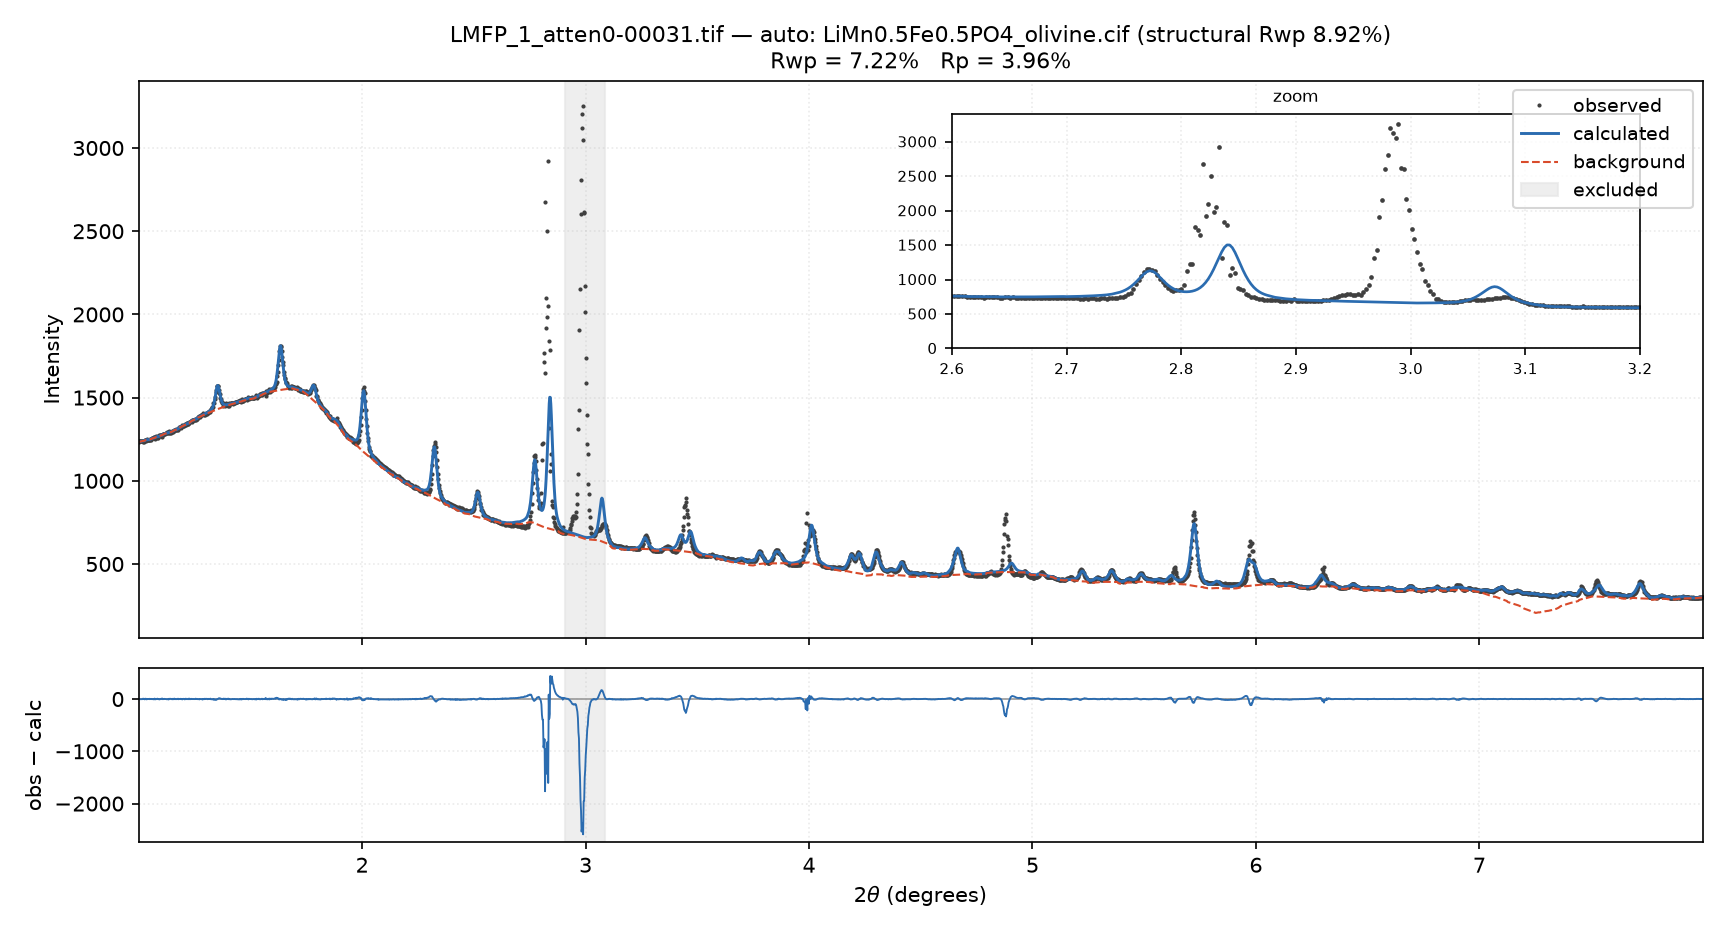
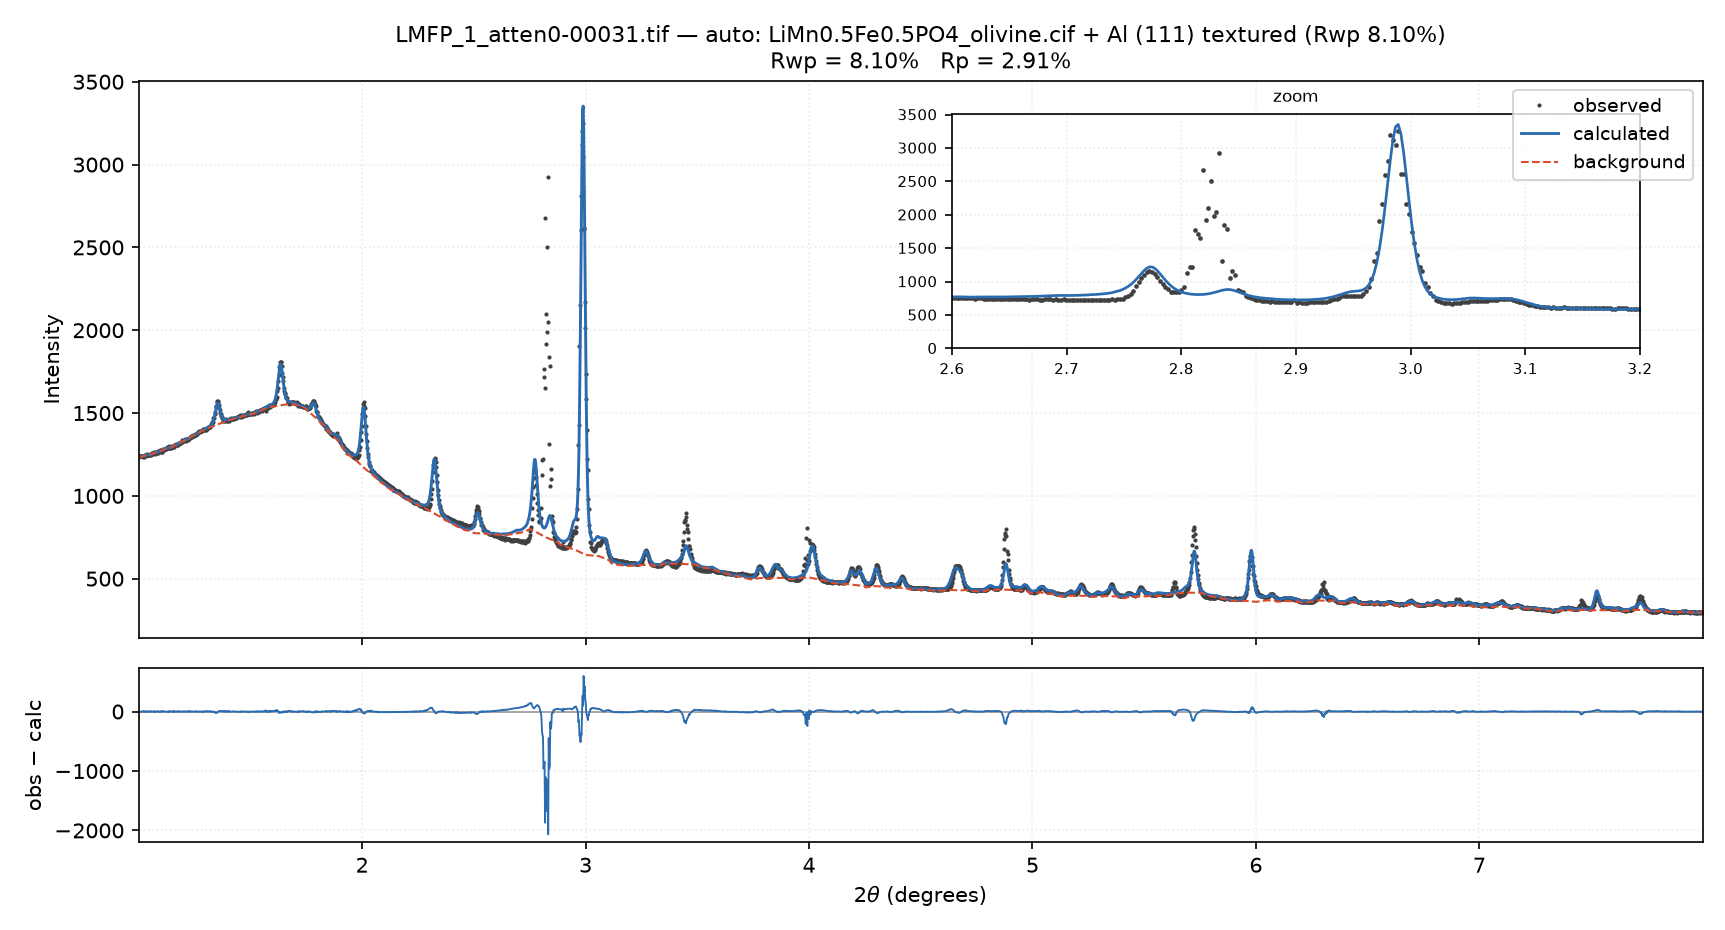
feat: model the Al substrate as a (111)-textured second phase
- rolled Al foil has strong (111) texture; the random-Al phase was worse than exclusion
- extra Al phase with md=((111),0.5): structural Rwp 8.92 -> 8.10%, Le Bail 7.22 -> 6.99%
- analyze_pattern auto-detects Al and uses the textured phase; fit_lmfp defaults to it (--exclude-al to opt out)
- bound fit iterations; refresh showcase figures/reports

diff --git a/scripts/fit_lmfp.py b/scripts/fit_lmfp.py
@@ -62,7 +62,7 @@ def instrument_profile(geom, lam):
     return fit_pattern(
         st, t, y, wavelength=lam, b_iso=b6, background=bg,
         background_knots=0.25, weights="poisson",
-        free=("zero", "u", "v", "w", "x", "y"))
+        free=("zero", "u", "v", "w", "x", "y"), max_nfev=200)
 
 
 def fit_one(path, structure, geom, lam, inst, outdir, exclude, cif_cell,
@@ -70,8 +70,12 @@ def fit_one(path, structure, geom, lam, inst, outdir, exclude, cif_cell,
     t, y = load_1d(path, geom)
     bg = estimate_baseline_sliding(t, y, 0.2)
     w = 1.0 / np.maximum(y, 1.0)
+    w_leb = w.copy()
     for lo, hi in exclude:
-        w[(t > lo) & (t < hi)] = 0.0
+        w_leb[(t > lo) & (t < hi)] = 0.0
+    w_struct = w.copy()
+    if not use_al:
+        w_struct = w_leb
 
     extras = []
     if use_al:
@@ -80,6 +84,9 @@ def fit_one(path, structure, geom, lam, inst, outdir, exclude, cif_cell,
             "structure": al, "label": "Al",
             "a": 4.061, "b": 4.061, "c": 4.061,
             "size_um": 0.1, "mustrain": 0.0, "b_iso": 0.5,
+            # 铝箔是轧制的，(111) 强取向；固定 (111) 织构才能解释
+            # 2.99° 的强峰与很弱的 (200)/(220)/(311)。
+            "md": ((1, 1, 1), 0.5),
         }]
     init = {
         "zero": inst.params["zero"],
@@ -90,33 +97,31 @@ def fit_one(path, structure, geom, lam, inst, outdir, exclude, cif_cell,
     }
     struct = fit_pattern(
         structure, t, y, wavelength=lam, b_iso=0.5, background=bg,
-        background_knots=0.25, intensity_poly=2, weights=w,
+        background_knots=0.25, intensity_poly=2, weights=w_struct,
         extra_phases=extras,
         free=("a", "b", "c", "size_um", "mustrain", "b_iso"),
-        initial=init)
-    # 固定结构拟合得到的晶胞，逐峰强度自由（Le Bail）。
-    # Al 第二相模式下 Le Bail 的 126 峰线性问题很慢，且这里只是探索，
-    # 直接用结构拟合出图；默认（排除 Al）仍然跑 Le Bail。
-    lebail = None
-    if not use_al:
-        lebail = fit_pattern(
-            structure, t, y, wavelength=lam, b_iso=0.5, background=bg,
-            background_knots=0.25, weights=w, cell_refine=True,
-            refine_intensities=True, extra_phases=extras,
-            free=("size_um", "mustrain"),
-            initial={**init, "a": struct.params["a"],
-                     "b": struct.params["b"], "c": struct.params["c"],
-                     "size_um": struct.params["size_um"],
-                     "mustrain": struct.params["mustrain"]})
+        initial=init, max_nfev=300)
+    # Le Bail 始终排除 Al 区、不带 Al 相：它给的是“样品峰形/峰强”的
+    # 参考值；结构拟合可以另带 Al 第二相。
+    lebail = fit_pattern(
+        structure, t, y, wavelength=lam, b_iso=0.5, background=bg,
+        background_knots=0.25, weights=w_leb, cell_refine=True,
+        refine_intensities=True,
+        free=("size_um", "mustrain"),
+        initial={**init, "a": struct.params["a"],
+                 "b": struct.params["b"], "c": struct.params["c"],
+                 "size_um": struct.params["size_um"],
+                 "mustrain": struct.params["mustrain"]}, max_nfev=200)
     tag = path.stem.rsplit("-", 1)[-1]
     out = outdir / f"sim_xrd_fit_LMFP_{tag}.png"
-    plot_src = lebail if lebail is not None else struct
+    plot_src = struct if use_al else lebail
     plot_fit(
         plot_src,
         f"LMFP {path.name} — "
-        f"{'Le Bail' if lebail is not None else 'structural'} profile "
-        f"(Rwp {plot_src.rwp:.2f}%)",
-        str(out), zoom=(2.6, 3.2), exclude_ranges=list(exclude))
+        f"{'structural (Al (111) textured)' if use_al else 'Le Bail'} "
+        f"profile (Rwp {plot_src.rwp:.2f}%)",
+        str(out), zoom=(2.6, 3.2),
+        exclude_ranges=[] if use_al else list(exclude))
     return struct, lebail, out
 
 
@@ -126,9 +131,9 @@ def main():
     ap.add_argument("--images", nargs="*", default=[str(p) for p in DEFAULT_IMAGES])
     ap.add_argument("--outdir", default=str(ROOT / "showcase" / "simulation"))
     ap.add_argument("--exclude", default="2.90,3.08",
-                    help="排除区间 lo,hi（度）；默认排除 Al (111) 基片峰")
-    ap.add_argument("--al-phase", action="store_true",
-                    help="把 Al 作为第二相建模（本样品实测不如排除：9.4%% vs 8.9%%）")
+                    help="排除区间 lo,hi（度）；Le Bail 始终排除 Al 区")
+    ap.add_argument("--exclude-al", action="store_true",
+                    help="不用 Al 第二相，直接把 Al 区从结构拟合里排除")
     ap.add_argument("--tmin", type=float, default=1.0)
     ap.add_argument("--tmax", type=float, default=8.0)
     a = ap.parse_args()
@@ -139,9 +144,10 @@ def main():
         ap.error(f"CIF 不存在：{cif}")
     structure = load_structure(str(cif))
     exclude = []
-    if a.exclude.strip() and not a.al_phase:
+    if a.exclude.strip():
         lo, hi = (float(x) for x in a.exclude.split(","))
         exclude = [(lo, hi)]
+    use_al = not a.exclude_al
     outdir = Path(a.outdir)
     outdir.mkdir(parents=True, exist_ok=True)
 
@@ -150,9 +156,9 @@ def main():
           f"U={inst.params['u']:.3f} V={inst.params['v']:.3f} "
           f"W={inst.params['w']:.3f} X={inst.params['x']:.3f} "
           f"Y={inst.params['y']:.3f}  (Rwp {inst.rwp:.3f}%)")
-    print(f"CIF: {cif.name}；Al "
-          + (f"排除区 {exclude[0][0]:.2f}–{exclude[0][1]:.2f}°"
-             if exclude else "作为第二相建模"))
+    print(f"CIF: {cif.name}；"
+          + (f"Al 排除区 {exclude[0][0]:.2f}–{exclude[0][1]:.2f}°"
+             if not use_al and exclude else "Al (111) 织构第二相"))
     print(f"{'image':>28} {'Rwp结构':>8} {'RwpLeBail':>10} "
           f"{'a':>7} {'b':>7} {'c':>7} {'size/µm':>8} {'ε/1e-3':>7} "
           f"{'B':>6} {'Al scale':>8}")
@@ -164,7 +170,7 @@ def main():
             continue
         struct, lebail, out = fit_one(
             p, structure, geom, lam, inst, outdir, exclude, SAMPLE_CELL,
-            use_al=a.al_phase)
+            use_al=use_al)
         al_scale = struct.params.get("Al:scale")
         leb_txt = (f"{lebail.rwp:10.3f}" if lebail is not None
                    else f"{chr(8212):>10}")

diff --git a/scripts/analyze_pattern.py b/scripts/analyze_pattern.py
@@ -67,7 +67,7 @@ def instrument_profile(geom, lam):
     return fit_pattern(
         st, t, y, wavelength=lam, b_iso=b6, background=bg,
         background_knots=0.25, weights="poisson",
-        free=("zero", "u", "v", "w", "x", "y"))
+        free=("zero", "u", "v", "w", "x", "y"), max_nfev=200)
 
 
 def detect_peaks(t, y, bg):
@@ -152,12 +152,23 @@ def al_substrate_ranges(obs_t, obs_h, lam, tmin, tmax, zero, primary_cif,
 
 
 def fit_one(path, primary, primary_name, cell0, geom, lam, inst, outdir,
-            exclude, tmin, tmax):
+            exclude, tmin, tmax, use_al=False):
     t, y = load_1d(path, geom, tmin, tmax)
     bg = estimate_baseline_sliding(t, y, 0.2)
     w = 1.0 / np.maximum(y, 1.0)
+    w_leb = w.copy()
     for lo, hi in exclude:
-        w[(t > lo) & (t < hi)] = 0.0
+        w_leb[(t > lo) & (t < hi)] = 0.0
+    w_struct = w if use_al else w_leb
+    extras = []
+    if use_al and AL_CIF.exists():
+        al = load_structure(str(AL_CIF))
+        extras = [{
+            "structure": al, "label": "Al",
+            "a": 4.061, "b": 4.061, "c": 4.061,
+            "size_um": 0.1, "mustrain": 0.0, "b_iso": 0.5,
+            "md": ((1, 1, 1), 0.5),      # 轧制铝箔的 (111) 织构
+        }]
     ip = {} if inst is None else {
         "zero": inst.params["zero"], "u": inst.params["u"],
         "v": inst.params["v"], "w": inst.params["w"],
@@ -168,22 +179,26 @@ def fit_one(path, primary, primary_name, cell0, geom, lam, inst, outdir,
             "size_um": 0.2, "mustrain": 1000.0, "b_iso": 0.5}
     struct = fit_pattern(
         primary, t, y, wavelength=lam, b_iso=0.5, background=bg,
-        background_knots=0.25, intensity_poly=2, weights=w,
+        background_knots=0.25, intensity_poly=2, weights=w_struct,
+        extra_phases=extras,
         free=("a", "b", "c", "size_um", "mustrain", "b_iso"),
-        initial=init)
+        initial=init, max_nfev=300)
     lebail = fit_pattern(
         primary, t, y, wavelength=lam, b_iso=0.5, background=bg,
-        background_knots=0.25, weights=w, cell_refine=True,
+        background_knots=0.25, weights=w_leb, cell_refine=True,
         refine_intensities=True, free=("size_um", "mustrain"),
         initial={**init, "a": struct.params["a"], "b": struct.params["b"],
                  "c": struct.params["c"],
                  "size_um": struct.params["size_um"],
-                 "mustrain": struct.params["mustrain"]})
+                 "mustrain": struct.params["mustrain"]}, max_nfev=200)
     tag = path.stem.rsplit("-", 1)[-1]
     out = outdir / f"sim_xrd_fit_LMFP_{tag}.png"
-    plot_fit(lebail, f"{path.name} — auto: {primary_name} "
-                     f"(structural Rwp {struct.rwp:.2f}%)",
-             str(out), zoom=(2.6, 3.2), exclude_ranges=list(exclude))
+    plot_src = struct if use_al else lebail
+    plot_fit(plot_src, f"{path.name} — auto: {primary_name}"
+                       + (" + Al (111) textured" if use_al else "")
+                       + f" (Rwp {plot_src.rwp:.2f}%)",
+             str(out), zoom=(2.6, 3.2),
+             exclude_ranges=[] if use_al else list(exclude))
     return struct, lebail, out
 
 
@@ -240,19 +255,22 @@ def main():
         primary = load_structure(str(top[1]))
         exclude = al_substrate_ranges(
             obs_t, obs_h, lam, a.tmin, a.tmax, zero, top[1], scale)
-        if exclude:
-            print("  自动识别 Al 集流体峰，排除："
+        use_al = bool(exclude)
+        if use_al:
+            print("  自动识别 Al 集流体峰，按 (111) 织构第二相建模："
                   + ", ".join(f"{lo:.2f}–{hi:.2f}°" for lo, hi in exclude))
         else:
             print("  未识别到 Al 集流体强峰")
         struct, lebail, out = fit_one(
             p, primary, top[1].name, cell0, geom, lam, inst, outdir,
-            exclude, a.tmin, a.tmax)
+            exclude, a.tmin, a.tmax, use_al=use_al)
+        al_txt = (f" Al={struct.params['Al:scale']:.3g}"
+                  if "Al:scale" in struct.params else "")
         print(f"  结构：Rwp {struct.rwp:.3f}%  a={struct.params['a']:.4f} "
               f"b={struct.params['b']:.4f} c={struct.params['c']:.4f} "
               f"Size={struct.params['size_um']:.3f} µm "
               f"ε={struct.params['mustrain']/4e6*1e3:.2f}e-3 "
-              f"B={struct.params['b_iso']:.2f}")
+              f"B={struct.params['b_iso']:.2f}{al_txt}")
         print(f"  Le Bail：Rwp {lebail.rwp:.3f}%")
         if struct.params["b_iso"] <= 0.01:
             print("  警告：B 撞到 0，结构强度模型不可信；以 Le Bail 峰强为准")
@@ -269,7 +287,10 @@ def main():
                      f"c={struct.params['c']:.4f} "
                      f"Size={struct.params['size_um']:.4f} "
                      f"strain={struct.params['mustrain']/4e6:.6f} "
-                     f"B={struct.params['b_iso']:.4f}\n")
+                     f"B={struct.params['b_iso']:.4f}"
+                     + (f" Al_scale={struct.params['Al:scale']:.6g}"
+                        if "Al:scale" in struct.params else "")
+                     + "\n")
             fh.write(f"Le Bail Rwp={lebail.rwp:.3f}%\n")
 
 
